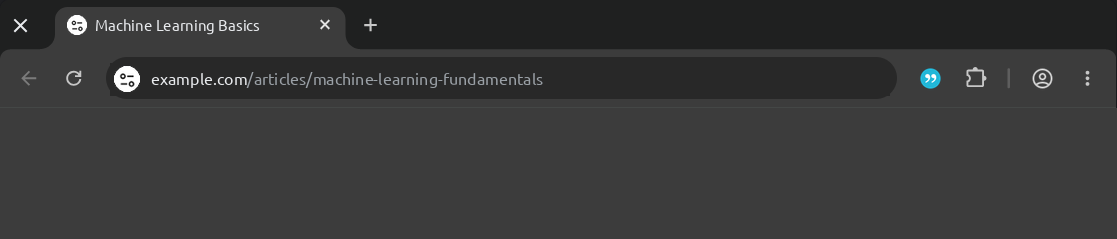
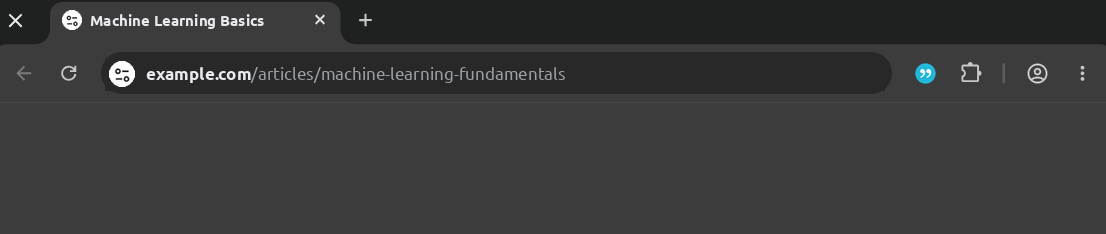
Crop inside the window frame, bolden the URL, redraw the arrows
The captures are framed by the window's own dark border, which also runs
down the right side beside the chrome and curves through the top corners.
The crops now start six pixels in on the top, left and right, which is
past the corner radius, so no hairline survives on any edge.

Tab title and the URL host are set in Ubuntu Bold and the address bar text
is a point larger, so the invented page reads as a real site at a glance.

The callout arrows started a visible gap away from their disc: the stem
began below the disc's centre line, so it emerged outside the circle
rather than from under it. The stem now starts at mid-height and reaches
far enough back to tuck beneath the disc, the head is roughly twice the
size, and the stem is thinner.

diff --git a/index.html b/index.html
@@ -40,27 +40,27 @@
                 <div class="shot">
                     <picture>
                         <source media="(prefers-color-scheme: dark)" srcset="img/step1-dark.png">
-                        <img src="img/step1-light.png" width="1117" height="399"
+                        <img src="img/step1-light.png" width="1106" height="394"
                             alt="Chrome window with the Extensions menu open, showing APA Reference Generator and its pin button">
                     </picture>
 
                     <!-- puzzle piece -->
-                    <span class="ann ann--left" style="left: 87.4%; top: 19.5%">
+                    <span class="ann ann--left" style="left: 87.8%; top: 18.5%">
                         <i class="ann__ring"></i>
                         <b class="ann__num">1</b>
-                        <svg class="ann__arrow" viewBox="0 0 64 44" aria-hidden="true">
-                            <path class="ann__line" d="M4 40 Q 30 44, 50 24" />
-                            <path class="ann__head" d="M60 14 L 55.4 28.8 L 45.8 20 Z" />
+                        <svg class="ann__arrow" viewBox="0 0 64 40" aria-hidden="true">
+                            <path class="ann__line" d="M2 22 Q 24 30, 42 19" />
+                            <path class="ann__head" d="M58 7 L 47.1 26.1 L 36.5 11.5 Z" />
                         </svg>
                     </span>
 
                     <!-- pin -->
-                    <span class="ann ann--right" style="left: 79.4%; top: 70.2%">
+                    <span class="ann ann--right" style="left: 79.7%; top: 69.8%">
                         <i class="ann__ring"></i>
                         <b class="ann__num">2</b>
-                        <svg class="ann__arrow ann__arrow--long" viewBox="0 0 64 44" aria-hidden="true">
-                            <path class="ann__line" d="M4 40 Q 30 44, 50 24" />
-                            <path class="ann__head" d="M60 14 L 55.4 28.8 L 45.8 20 Z" />
+                        <svg class="ann__arrow ann__arrow--long" viewBox="0 0 64 40" aria-hidden="true">
+                            <path class="ann__line" d="M2 22 Q 24 30, 42 19" />
+                            <path class="ann__head" d="M58 7 L 47.1 26.1 L 36.5 11.5 Z" />
                         </svg>
                     </span>
                 </div>
@@ -76,16 +76,16 @@
                 <div class="shot">
                     <picture>
                         <source media="(prefers-color-scheme: dark)" srcset="img/step2-dark.png">
-                        <img src="img/step2-light.png" width="1117" height="239"
+                        <img src="img/step2-light.png" width="1106" height="234"
                             alt="Chrome window with the APA Reference Generator icon pinned to the toolbar">
                     </picture>
 
-                    <span class="ann ann--left" style="left: 83.2%; top: 32.6%">
+                    <span class="ann ann--left" style="left: 83.5%; top: 31.2%">
                         <i class="ann__ring"></i>
                         <b class="ann__num">3</b>
-                        <svg class="ann__arrow" viewBox="0 0 64 44" aria-hidden="true">
-                            <path class="ann__line" d="M4 40 Q 30 44, 50 24" />
-                            <path class="ann__head" d="M60 14 L 55.4 28.8 L 45.8 20 Z" />
+                        <svg class="ann__arrow" viewBox="0 0 64 40" aria-hidden="true">
+                            <path class="ann__line" d="M2 22 Q 24 30, 42 19" />
+                            <path class="ann__head" d="M58 7 L 47.1 26.1 L 36.5 11.5 Z" />
                         </svg>
                     </span>
                 </div>

diff --git a/welcome.css b/welcome.css
@@ -228,16 +228,16 @@ b {
 .ann__arrow {
     position: absolute;
     z-index: 2;
-    width: 5.6cqw;
-    height: 3.9cqw;
+    width: 8cqw;
+    height: 5cqw;
     overflow: visible;
     pointer-events: none;
     color: var(--arrow);
 }
 
 .ann__arrow--long {
-    width: 7cqw;
-    height: 4.8cqw;
+    width: 9.5cqw;
+    height: 5.9cqw;
 }
 
 /* Disc on the left, arrow pointing right at the target. */
@@ -246,8 +246,8 @@ b {
 }
 
 .ann--left .ann__arrow {
-    right: 1.6cqw;
-    top: -1.24cqw;
+    right: 2.2cqw;
+    top: -0.875cqw;
 }
 
 /* Disc on the right, arrow pointing left at the target.
@@ -257,15 +257,15 @@ b {
 }
 
 .ann--right .ann__arrow {
-    left: 1.6cqw;
-    top: -1.53cqw;
+    left: 2.2cqw;
+    top: -1.03cqw;
     transform: scaleX(-1);
 }
 
 .ann__line {
     fill: none;
     stroke: currentColor;
-    stroke-width: 5;
+    stroke-width: 2.6;
     stroke-linecap: round;
 }
 

diff --git a/tools/crop.py b/tools/crop.py
@@ -4,11 +4,13 @@ SRC = '..'
 OUT = '../img'
 FAVICON = 'site-favicon.png'
 FONT = '/usr/share/fonts/truetype/ubuntu/Ubuntu-R.ttf'
+FONT_BOLD = '/usr/share/fonts/truetype/ubuntu/Ubuntu-B.ttf'
 
-# The captures carry a 1px dark window border along the top and left edges;
-# start one pixel in so it does not show up as a black line on the page.
-POPUP_BOX = (1, 1, 1118, 400)   # down to below the extensions dropdown
-BAR_BOX = (1, 1, 1118, 240)     # just the browser frame; no empty page below
+# The captures are framed by the window's own dark border - along the top and
+# left edges, and down the right edge beside the chrome. Crop inside it so it
+# does not read as a black line drawn around the screenshot.
+POPUP_BOX = (6, 6, 1112, 400)   # down to below the extensions dropdown
+BAR_BOX = (6, 6, 1112, 240)     # just the browser frame; no empty page below
 
 # --- step 1: paint out page content showing through / around the dropdown ----
 CARD_FILL = (860, 160)
@@ -87,8 +89,9 @@ def dress_browser(im, theme):
         icon, side = fit_favicon(box)
         im.paste(icon, centred(box, side), icon)
 
-    tab_font = ImageFont.truetype(FONT, 15)
-    url_font = ImageFont.truetype(FONT, 16)
+    tab_font = ImageFont.truetype(FONT_BOLD, 15)
+    host_font = ImageFont.truetype(FONT_BOLD, 17)
+    path_font = ImageFont.truetype(FONT, 17)
 
     # Tab title, truncated the way Chrome would if it overflows.
     title, limit = TITLE, TAB_TITLE[2] - TAB_TITLE[0] - 6
@@ -100,9 +103,9 @@ def dress_browser(im, theme):
 
     # URL with the host emphasised, as Chrome renders it.
     x = OMNI_TEXT[0] + 3
-    draw.text((x, 80), URL_HOST, font=url_font, fill=INK[theme], anchor='lm')
-    x += draw.textlength(URL_HOST, font=url_font)
-    draw.text((x, 80), URL_PATH, font=url_font, fill=MUTED[theme], anchor='lm')
+    draw.text((x, 80), URL_HOST, font=host_font, fill=INK[theme], anchor='lm')
+    x += draw.textlength(URL_HOST, font=host_font)
+    draw.text((x, 80), URL_PATH, font=path_font, fill=MUTED[theme], anchor='lm')
 
     return im
 
@@ -116,8 +119,15 @@ def build(name, src, box, masks=(), dress=None):
     if dress:
         im = dress_browser(im, dress)
 
-    im.crop(box).save(f'{OUT}/{name}.png')
-    print(f'{name}.png  {box[2]-box[0]}x{box[3]-box[1]}')
+    out = im.crop(box)
+    w, h = out.size
+
+    # The window border is a hairline much darker than whatever sits just
+    # inside it. Comparing against a neighbour a few pixels in catches it in
+    # either theme, where a plain brightness threshold cannot: the light
+    # border and legitimate dark-theme chrome are nearly the same brightness.
+    out.save(f'{OUT}/{name}.png')
+    print(f'{name}.png  {w}x{h}')
 
 
 build('step1-light', 'light_popup_small.png', POPUP_BOX, POPUP_MASK)
